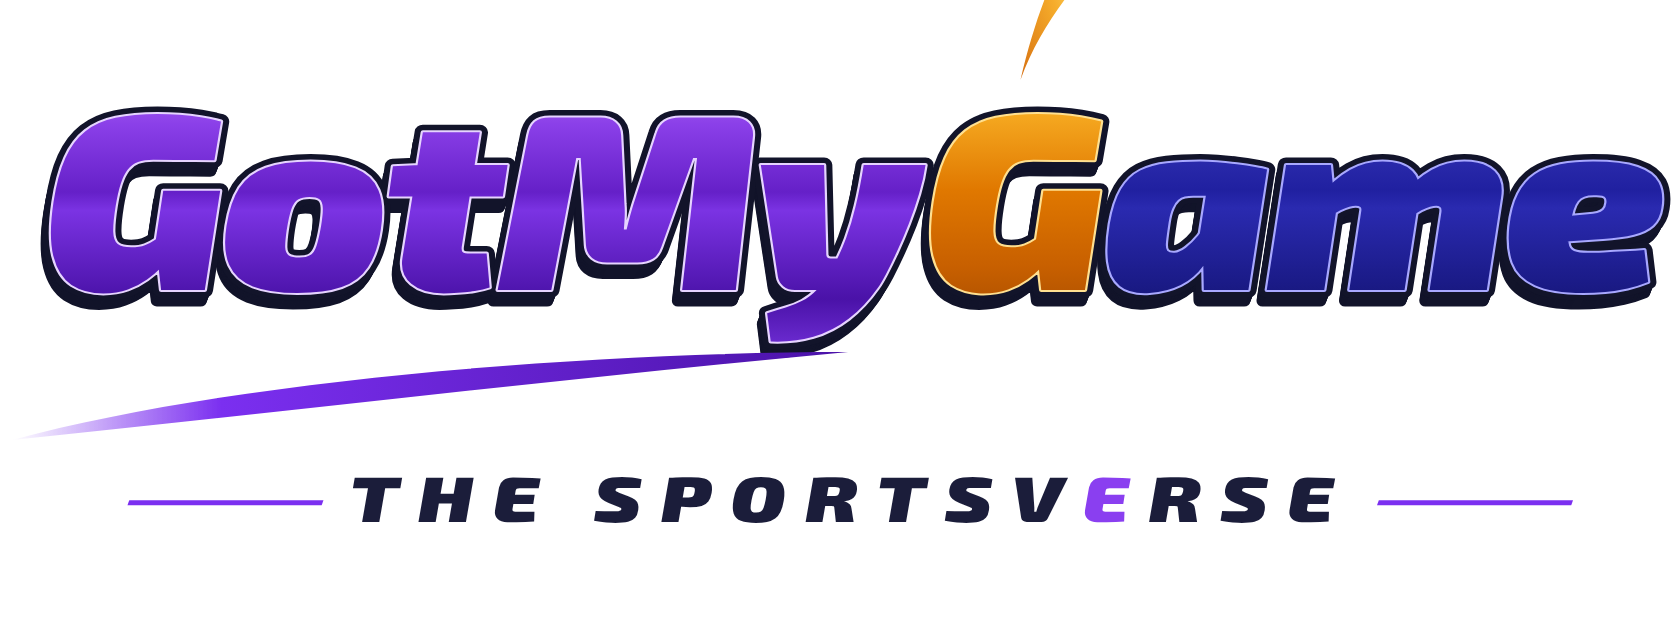
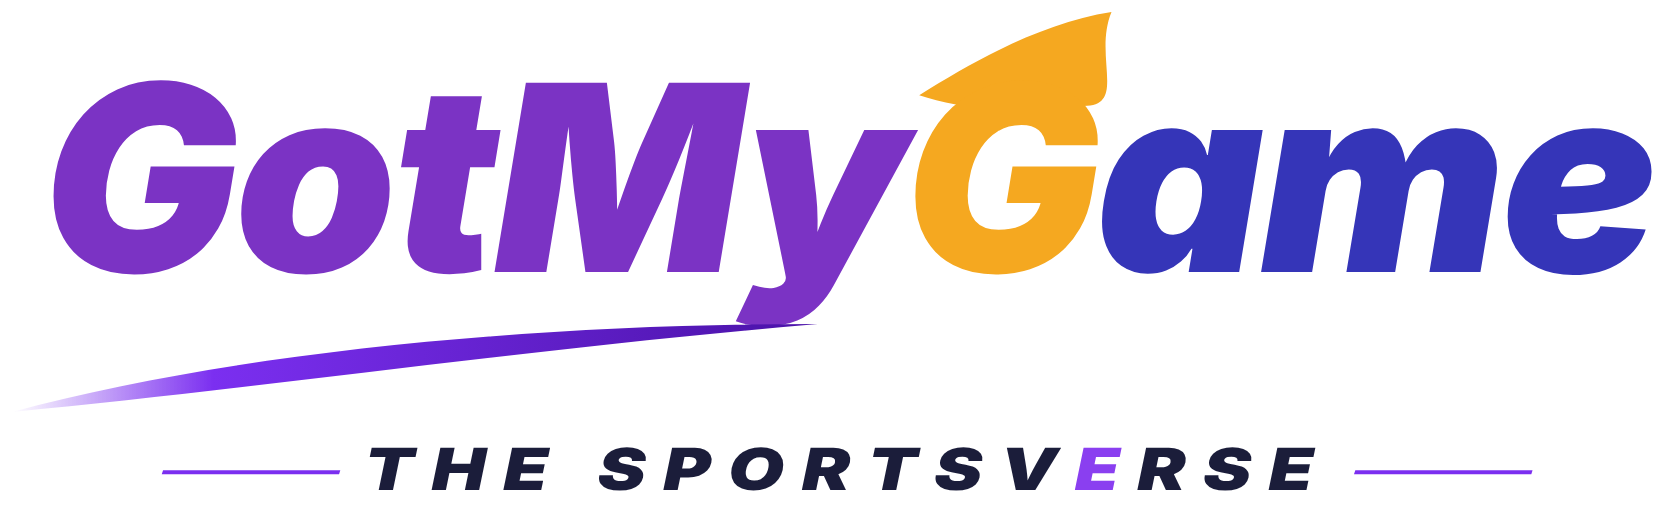
feat(brand): switch wordmark to Inter Black Italic, flat palette
Replace Exo 2 Black Italic + 3D chrome effect with Inter Black Italic and
flat fills matching the new GotMyGame identity: purple #7B33C4 for "GotMy",
amber #F5A820 for the "G" with flame swoosh, deep indigo #3535B8 for "ame".
Adds Inter_900_Italic.woff2 to the brand fonts directory.
Regenerates all six wordmark PNGs (app + api, name + tagline light/dark).

Claude-Session: https://claude.ai/code/session_018FMP3LekTxaDrMcnwMMPbx

Changed region(s): [[0.0, 0.0, 0.9994, 0.9612]]

diff --git a/scripts/brand/wordmark.html b/scripts/brand/wordmark.html
@@ -1,36 +1,16 @@
 <!doctype html><html><head><meta charset="utf-8"><style>
-@font-face{font-family:'Exo2Black';src:url('fonts/Exo2_900Black_Italic.ttf');}
+@font-face{font-family:'InterBlack';src:url('fonts/Inter_900_Italic.woff2') format('woff2');}
 html,body{margin:0;background:transparent}
 svg{display:block}
-text{font-family:'Exo2Black';font-weight:900;font-style:normal}
+text{font-family:'InterBlack';font-weight:900;font-style:italic}
 </style></head><body>
 <svg id="s" xmlns="http://www.w3.org/2000/svg" width="1800" height="620" viewBox="0 0 1800 620">
 <defs>
- <!-- Purple gradient for "GotMy" -->
- <linearGradient id="purple" x1="0" y1="0" x2="0" y2="1">
-  <stop offset="0" stop-color="#C97EFF"/><stop offset=".28" stop-color="#8A3FE8"/><stop offset=".5" stop-color="#6520C8"/>
-  <stop offset=".56" stop-color="#7B33E3"/><stop offset=".85" stop-color="#4A12A8"/><stop offset="1" stop-color="#6B2BD0"/>
+ <linearGradient id="swoosh" x1="0" y1="0" x2="1" y2="0">
+  <stop offset="0" stop-color="#7B2FF0" stop-opacity="0"/>
+  <stop offset=".25" stop-color="#7B2FF0"/>
+  <stop offset="1" stop-color="#4A12A8"/>
  </linearGradient>
- <!-- Amber/gold gradient for "G" -->
- <linearGradient id="amber" x1="0" y1="0" x2="0" y2="1">
-  <stop offset="0" stop-color="#FFE066"/><stop offset=".25" stop-color="#F5A820"/><stop offset=".5" stop-color="#E07800"/>
-  <stop offset=".75" stop-color="#C86000"/><stop offset="1" stop-color="#A04800"/>
- </linearGradient>
- <!-- Deep indigo gradient for "ame" -->
- <linearGradient id="indigo" x1="0" y1="0" x2="0" y2="1">
-  <stop offset="0" stop-color="#6668D8"/><stop offset=".28" stop-color="#3535B8"/><stop offset=".5" stop-color="#2020A0"/>
-  <stop offset=".56" stop-color="#2A2AB0"/><stop offset=".85" stop-color="#181880"/><stop offset="1" stop-color="#222298"/>
- </linearGradient>
- <!-- Side extrusions -->
- <linearGradient id="pside" x1="0" y1="0" x2="0" y2="1"><stop offset="0" stop-color="#4A1AA0"/><stop offset="1" stop-color="#1E0B55"/></linearGradient>
- <linearGradient id="aside" x1="0" y1="0" x2="0" y2="1"><stop offset="0" stop-color="#8B5000"/><stop offset="1" stop-color="#3D2000"/></linearGradient>
- <linearGradient id="iside" x1="0" y1="0" x2="0" y2="1"><stop offset="0" stop-color="#1A1A70"/><stop offset="1" stop-color="#0A0A3A"/></linearGradient>
- <!-- Flame gradient (radial, centre bright) -->
- <radialGradient id="flame" cx="0.4" cy="0.6" r="0.6">
-  <stop offset="0" stop-color="#FFE87A"/><stop offset=".4" stop-color="#F5A820"/><stop offset="1" stop-color="#D06000"/>
- </radialGradient>
- <!-- Tagline swoosh -->
- <linearGradient id="swoosh" x1="0" y1="0" x2="1" y2="0"><stop offset="0" stop-color="#7B2FF0" stop-opacity="0"/><stop offset=".25" stop-color="#7B2FF0"/><stop offset="1" stop-color="#4A12A8"/></linearGradient>
 </defs>
 <g id="root"></g>
 </svg>
@@ -38,58 +18,87 @@ text{font-family:'Exo2Black';font-weight:900;font-style:normal}
 const NS='http://www.w3.org/2000/svg';
 const el=(n,a={},p)=>{const e=document.createElementNS(NS,n);for(const k in a)e.setAttribute(k,a[k]);p&&p.appendChild(e);return e};
 const root=document.getElementById('root');
-const SIZE=250, SX=1.1, X0=80, BASE=290, D=11;
-const mk=(txt,x,face,side,outline,rim,parent)=>{
-  const g=el('g',{transform:`translate(${x},${BASE}) scale(${SX},1)`},parent);
-  const t=(o)=>{const e=el('text',{x:0,y:0,'font-size':SIZE,'letter-spacing':-5,...o},g);e.textContent=txt;return e};
-  for(let i=D;i>=1;i--) t({transform:`translate(${-i*0.35},${i})`,fill:'url(#'+side+')',stroke:outline,'stroke-width':11,'stroke-linejoin':'round'});
-  t({fill:'none',stroke:outline,'stroke-width':15,'stroke-linejoin':'round'});
-  t({fill:'url(#'+face+')',stroke:rim,'stroke-width':4,'stroke-linejoin':'round','paint-order':'stroke'});
+const SIZE=260, X0=60, BASE=280;
+
+// Flat coloured text — no extrusion
+const mkFlat=(txt,x,fill,parent)=>{
+  const g=el('g',{transform:`translate(${x},${BASE})`},parent);
+  const t=el('text',{x:0,y:0,'font-size':SIZE,'letter-spacing':-4,fill},g);
+  t.textContent=txt;
   return g;
 };
+
 window.build=async(variant,mode='full')=>{
-  await document.fonts.load('900 300px Exo2Black');
+  await document.fonts.load(`900 300px InterBlack`);
   root.innerHTML='';
-  // measure widths
-  const measure=(txt)=>{const p=el('text',{'font-size':SIZE,'letter-spacing':-5,x:0,y:-999},root);p.textContent=txt;const w=p.getComputedTextLength()*SX;p.remove();return w;};
+
+  const measure=(txt)=>{
+    const p=el('text',{'font-size':SIZE,'letter-spacing':-4,x:0,y:-9999},root);
+    p.textContent=txt;
+    const w=p.getComputedTextLength();
+    p.remove();
+    return w;
+  };
+
   const w1=measure('GotMy');
   const wG=measure('G');
   const w3=measure('ame');
-  // "GotMy" in purple
-  mk('GotMy',X0,'purple','pside','#12142A','#E6D4FF',root);
-  // "G" in amber/gold
-  const gx=X0+w1+4;
-  mk('G',gx,'amber','aside','#12142A','#FFE090',root);
-  // Flame swoosh above the G: a teardrop arc from upper-left of G curving over and tapering to a point
-  // Positioned relative to the G's top-right: BASE-SIZE ≈ 40 is the cap height
-  const capTop=BASE-SIZE*0.92; // roughly the top of uppercase letters
-  const gRight=gx+wG;         // right edge of G
-  const flX=gx+wG*0.55;       // flame starts near the G's right shoulder
-  const flY=capTop+20;
+
+  // "GotMy" — purple #7B33C4
+  mkFlat('GotMy', X0, '#7B33C4', root);
+
+  // Flame swoosh above the G: a smooth teardrop arc in amber/gold drawn BEFORE the G text
+  // so it sits behind the letter stroke but visually in front of "GotMy"
+  const gx = X0 + w1;
+  // The cap-top of the font sits at roughly BASE - SIZE*0.74 for Inter
+  const cap = BASE - SIZE * 0.74;
+  // Flame: starts at the left shoulder of G, curves up and over, tapers to a point
+  const fx = gx + wG * 0.08;   // left anchor near the G's top-left
+  const fy = cap + SIZE * 0.06; // just below cap height
+  const tipX = gx + wG * 1.08; // tip extends slightly past the G's right edge
+  const tipY = cap - SIZE * 0.26; // tip points above cap height
   el('path',{
-    // A bezier-based teardrop/flame shape curving upward and to the right, then tapering to a tip
-    d:`M ${flX} ${flY}
-       C ${flX+40} ${flY-110}, ${flX+140} ${flY-170}, ${flX+180} ${flY-220}
-       C ${flX+200} ${flY-250}, ${flX+170} ${flY-270}, ${flX+130} ${flY-240}
-       C ${flX+80}  ${flY-190}, ${flX+30}  ${flY-130}, ${flX}     ${flY} Z`,
-    fill:'url(#flame)',stroke:'none',opacity:0.95
-  },root);
-  // "ame" in deep indigo
-  mk('ame',gx+wG+2,'indigo','iside','#12142A','#A8A8FF',root);
-  const right=gx+wG+2+w3;
-  const total=right-X0, cx=(X0+right)/2;
-  if(mode==='name') return {right,tw:0};
-  el('path',{d:`M ${X0-30} ${BASE+150} C ${X0+200} ${BASE+88}, ${X0+560} ${BASE+62}, ${X0+w1*0.92} ${BASE+62} C ${X0+w1*0.6} ${BASE+88}, ${X0+260} ${BASE+120}, ${X0-30} ${BASE+150} Z`,fill:'url(#swoosh)'},root);
-  const tag='THE SPORTSVERSE', tsize=64, ty=BASE+232;
+    d:`M ${fx} ${fy}
+       C ${fx + wG*0.3}  ${cap - SIZE*0.08},
+         ${tipX - wG*0.35} ${tipY + SIZE*0.04},
+         ${tipX} ${tipY}
+       C ${tipX - wG*0.1} ${tipY + SIZE*0.18},
+         ${fx + wG*1.1}  ${cap + SIZE*0.12},
+         ${fx + wG*0.82} ${fy + SIZE*0.04}
+       C ${fx + wG*0.55} ${fy + SIZE*0.08},
+         ${fx + wG*0.2}  ${fy + SIZE*0.05},
+         ${fx} ${fy} Z`,
+    fill:'#F5A820', stroke:'none'
+  }, root);
+
+  // "G" in amber/gold #F5A820, drawn on top of the flame
+  mkFlat('G', gx, '#F5A820', root);
+
+  // "ame" — deep indigo #3535B8
+  mkFlat('ame', gx + wG, '#3535B8', root);
+
+  const right = gx + wG + w3;
+  const total = right - X0, cx = (X0 + right) / 2;
+  if(mode==='name') return {right, tw:0};
+
+  // Tagline swoosh decoration
+  el('path',{
+    d:`M ${X0-30} ${BASE+140} C ${X0+200} ${BASE+78}, ${X0+500} ${BASE+52}, ${X0+w1*0.9} ${BASE+52} C ${X0+w1*0.55} ${BASE+78}, ${X0+240} ${BASE+114}, ${X0-30} ${BASE+140} Z`,
+    fill:'url(#swoosh)'
+  }, root);
+
+  const tag='THE SPORTSVERSE', tsize=58, ty=BASE+218;
   const navy=variant==='dark'?'#F2F4FA':'#1B1D3A';
   const tt=el('text',{x:0,y:0,'font-size':tsize,'letter-spacing':tsize*0.24,fill:navy},root);
-  let html='';[...tag].forEach((ch,i)=>{html+= (i===11)?`<tspan fill="#8A3FF0">${ch}</tspan>`:ch;});tt.innerHTML=html;
-  const nat=tt.getComputedTextLength(), target=total*0.62, ts=target/nat;
+  let html='';
+  [...tag].forEach((ch,i)=>{ html += (i===11)?`<tspan fill="#8A3FF0">${ch}</tspan>`:ch; });
+  tt.innerHTML=html;
+  const nat=tt.getComputedTextLength(), target=total*0.60, ts=target/nat;
   tt.setAttribute('transform',`translate(${cx-target/2},${ty}) scale(${ts},1)`);
-  const lw=total*0.12, gap=26, ly=ty-tsize*0.34;
-  const line=(x,w)=>el('rect',{x:0,y:0,width:w,height:5,fill:'#7B2FF0',transform:`translate(${x},${ly}) skewX(-20)`},root);
-  line(cx-target/2-gap-lw,lw); line(cx+target/2+gap,lw);
-  const tw=target;
-  return {right,tw};
+  const lw=total*0.11, gap=24, ly=ty-tsize*0.34;
+  const line=(x,w)=>el('rect',{x:0,y:0,width:w,height:4,fill:'#7B2FF0',transform:`translate(${x},${ly}) skewX(-18)`},root);
+  line(cx-target/2-gap-lw, lw);
+  line(cx+target/2+gap, lw);
+  return {right, tw:target};
 };
 </script></body></html>
